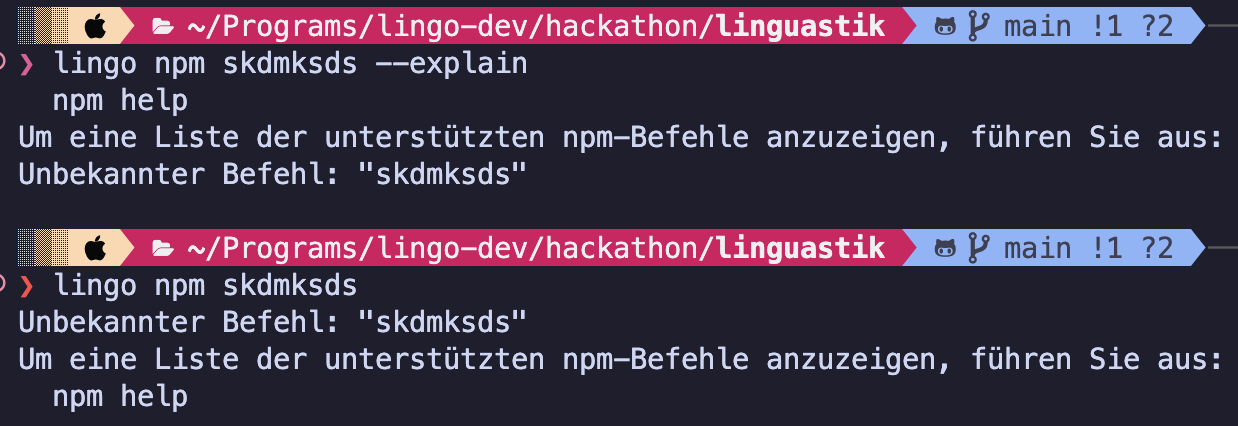
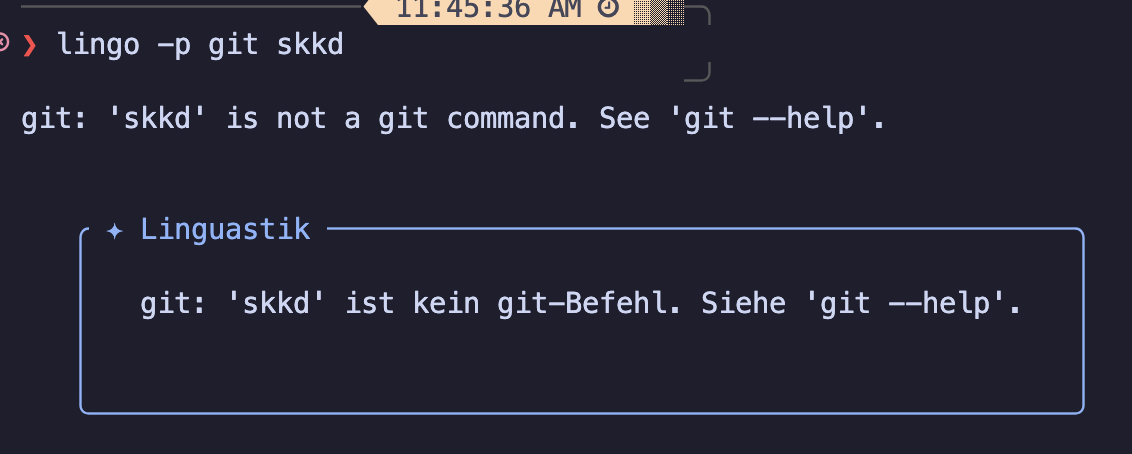
docs: update explain flag with precise flag

diff --git a/docs/shared/explainer.md b/docs/shared/explainer.md
@@ -3,13 +3,13 @@
 > **Role**: Pattern-based error analysis engine. Matches raw terminal error output against a structured JSON database to produce localized, human-readable explanations with root causes and actionable fixes.
 
 **Source**: [`shared/src/explainer.ts`](../../shared/src/explainer.ts)  
-**Used by**: [`cli/src/index.ts`](../cli/index.md) (when the `--explain` flag is passed)
+**Used by**: [`cli/src/index.ts`](../cli/index.md) (error pattern matching, available regardless of mode)
 
 ---
 
 ## Overview
 
-When a developer runs a command with `lingo-dev --explain <cmd>`, and that command fails, the full `stderr` output is captured and passed to `Explainer.explain()`. The explainer scans it against a database of regex patterns. When a match is found, it returns a structured report including:
+When a developer runs a command with `lingo --precise <cmd>`, and that command fails, the full `stderr` output is captured and passed to `Explainer.explain()`. The explainer scans it against a database of regex patterns. When a match is found, it returns a structured report including:
 
 - **Tool**: Which tool caused the error (e.g., `git`, `npm`, `docker`).
 - **Title**: A short problem title.
@@ -177,5 +177,5 @@ export const explainer = new Explainer();
 
 ## Related Modules
 
-- [`cli/index.ts`](../cli/index.md) — captures `stderr` and calls `explainer.explain()`
+- [`cli/index.ts`](../cli/index.md) — uses `explainer.explain()` for error pattern matching
 - [`shared/src/patterns/errors.json`](../../shared/src/patterns) — the pattern database loaded at startup

diff --git a/docs/README.md b/docs/README.md
@@ -40,7 +40,7 @@ The terminal command wrapper:
 
 | File                               | Description                                                             |
 | ---------------------------------- | ----------------------------------------------------------------------- |
-| [index.md](./cli/index.md)         | CLI entry point — argument parsing, `--explain`, exit code propagation  |
+| [index.md](./cli/index.md)         | CLI entry point — argument parsing, `--precise` mode, exit code propagation    |
 | [wrapper.md](./cli/wrapper.md)     | `execWithTranslation()` — real-time stream interception and translation |
 | [formatter.md](./cli/formatter.md) | Console output utilities: colors, boxes, spinners                       |
 
@@ -95,8 +95,8 @@ lingo --lang ja
 # Wrap any command
 lingo npm test
 
-# Get error explanations
-lingo --explain git push origin main
+# Precise mode — full-context translation summary
+lingo -p npm help
 ```
 
 ### Extension

diff --git a/README.md b/README.md
@@ -31,7 +31,7 @@ Linguastik is a developer toolset that makes the web and your command line reada
 
  <img src="./assets/cli/cli2.png" width="400">
 
-- **Error explainer** — when a command fails, run it with `--explain` to get a structured breakdown of the problem, its likely causes, and actionable fixes.
+- **Precise mode** — run any command with `-p` / `--precise` to capture its full output and get an accurate, context-aware translation summary from lingo.dev, displayed in a clean summary box.
 
  <img src="./assets/cli/cli3.png" width="400">
 
@@ -97,8 +97,9 @@ lingo --lang ja
 lingo npm install
 lingo git status
 
-# Get a structured explanation of errors
-lingo --explain git push origin main
+# Precise mode — full-context translation summary
+lingo -p npm help
+lingo --precise git log --oneline
 ```
 
 ### Browser Extension
